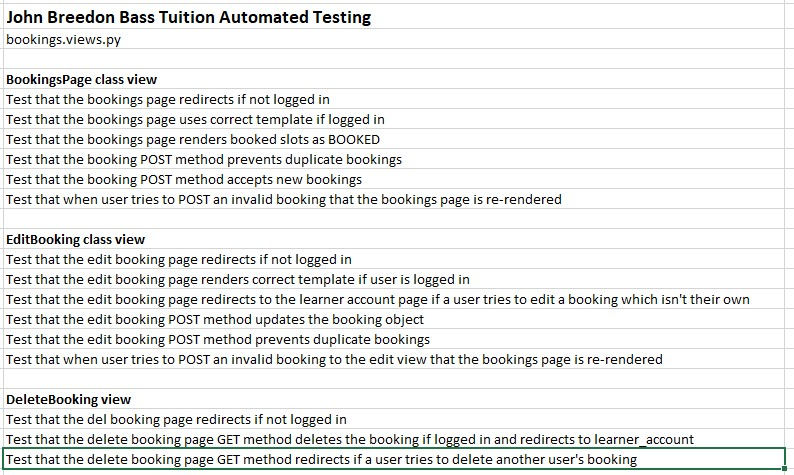
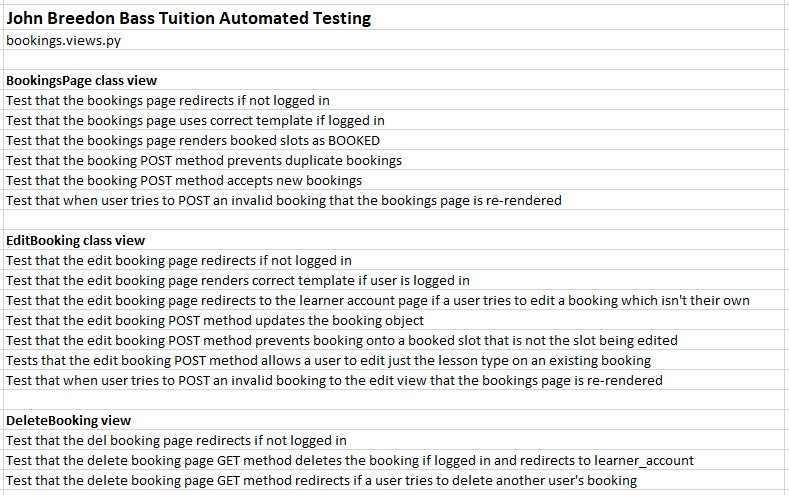
Add new bug to README and updated test files

Changed region(s): [[0.0, 0.0, 1.0, 0.8253], [0.0, 0.8253, 1.0, 1.0]]

diff --git a/bookings/test_views.py b/bookings/test_views.py
@@ -207,7 +207,7 @@ class TestEditBookingView(TestCase):
     def test_edit_booking_rejects_duplicate_booking(self):
         '''
         Tests that the edit booking POST method prevents booking onto
-        a booked slot that is not the slot being edited 
+        a booked slot that is not the slot being edited
         '''
         day_after_tomorrow = datetime.now() + timedelta(days=2)
         test_user = User.objects.get(pk=1)

diff --git a/README.md b/README.md
@@ -80,6 +80,7 @@ The live site can be found [here](https://john-breedon-bass-tuition.herokuapp.co
 	- [Background Image issue](<#background-image-issue>)
 	- [LearnerProfile Bug](<#learnerprofile-bug>)
 	- [Email required Bug](<#email-required-bug>)
+	- [Update Booking Bug](<#update-booking-bug>)
 - [Deployment](<#deployment>)
 	- [Django](<#django>)
 	- [Heroku](<#heroku>)
@@ -628,6 +629,47 @@ Originally the code looked as follows:
 	{% endfor %}
 {% else %}
 ~~~  
+
+### Update Booking Bug
+
+When reviewing my code with my mentor, he highlighted a use case scenario that had not been accounted for, in that a user may want to just update their lesson *type* without updating the lesson *time*. I had not considered this as a use case and had explicitly blocked it in the `bookings.py` by preventing an update occurring if a booking with the same date and time already existed. Originally the code looked like this:
+~~~
+def post(self, request, booking_id):
+	'''
+	Handles POST requests to the edit_bookings page
+	'''
+	queryset = Booking.objects.all()
+	booking_to_edit = get_object_or_404(queryset, pk=booking_id)
+	booking_form = BookingForm(request.POST, instance=booking_to_edit)
+
+	date = request.POST['date']
+	time = request.POST['time']
+
+	# Check if booking already exists
+	if queryset.filter(date=date).filter(time=time).exists():
+		messages.error(
+			request,
+			'That slot is unavailable, please select a different time'
+		)
+		return redirect(reverse('edit_booking', args=[booking_id]))
+~~~
+
+To account for the new use case, I amended the code to include a check that if an existing booking is found, that the primary key for this booking has to be different in order to reject the update:
+~~~
+# Prevent user selecting booked slots that aren't the existing slot
+if queryset.filter(date=date).filter(time=time).exists():
+	existing_booking = (
+		queryset.filter(date=date)
+		.filter(time=time)
+		.first()
+	)
+	if existing_booking.pk != booking_to_edit.pk:
+		messages.error(
+			request,
+			'That slot is unavailable, please select a different time'
+		)
+		return redirect(reverse('edit_booking', args=[booking_id]))
+~~~
 
 [Back to top ⇧](#john-breedon-bass-tuition)
 
